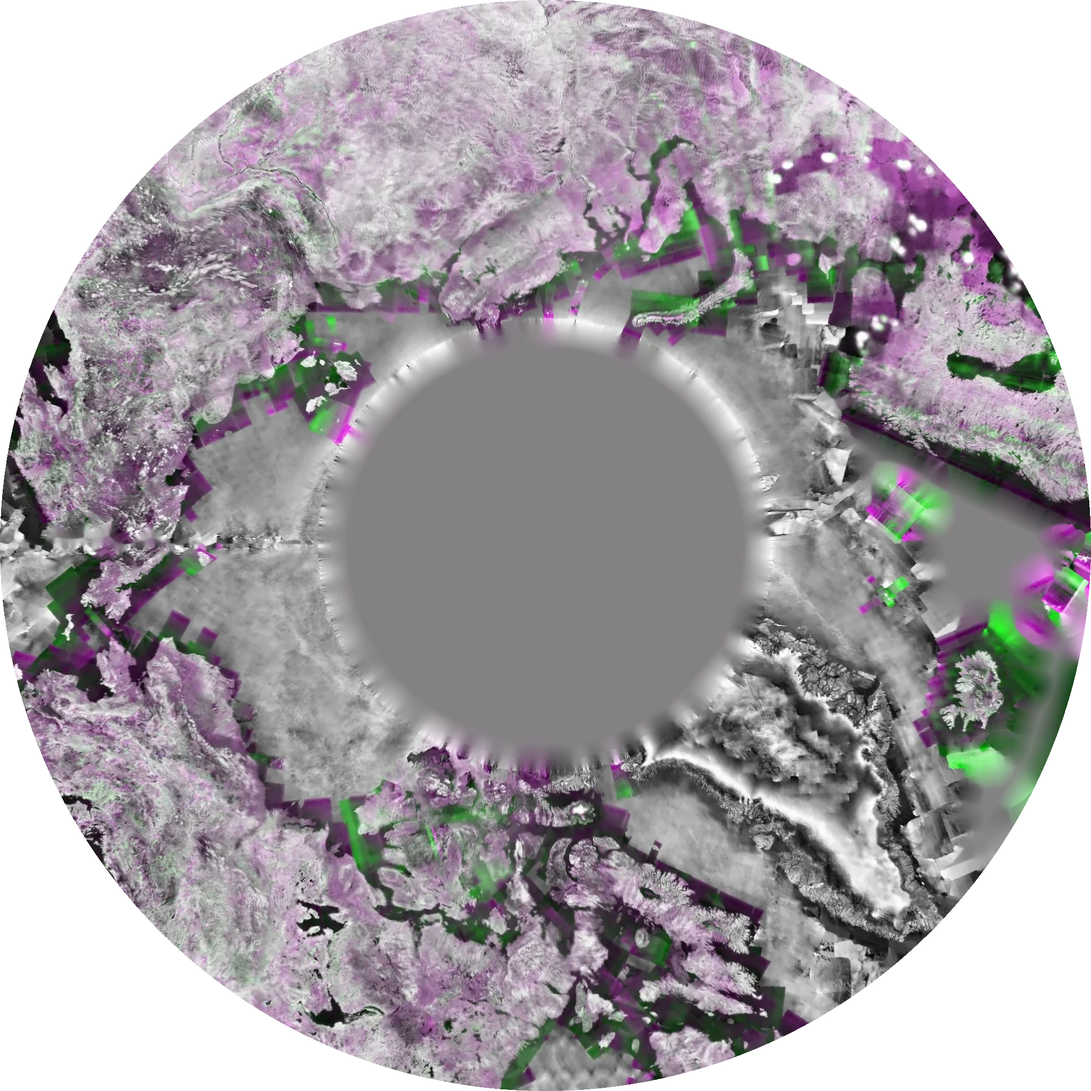
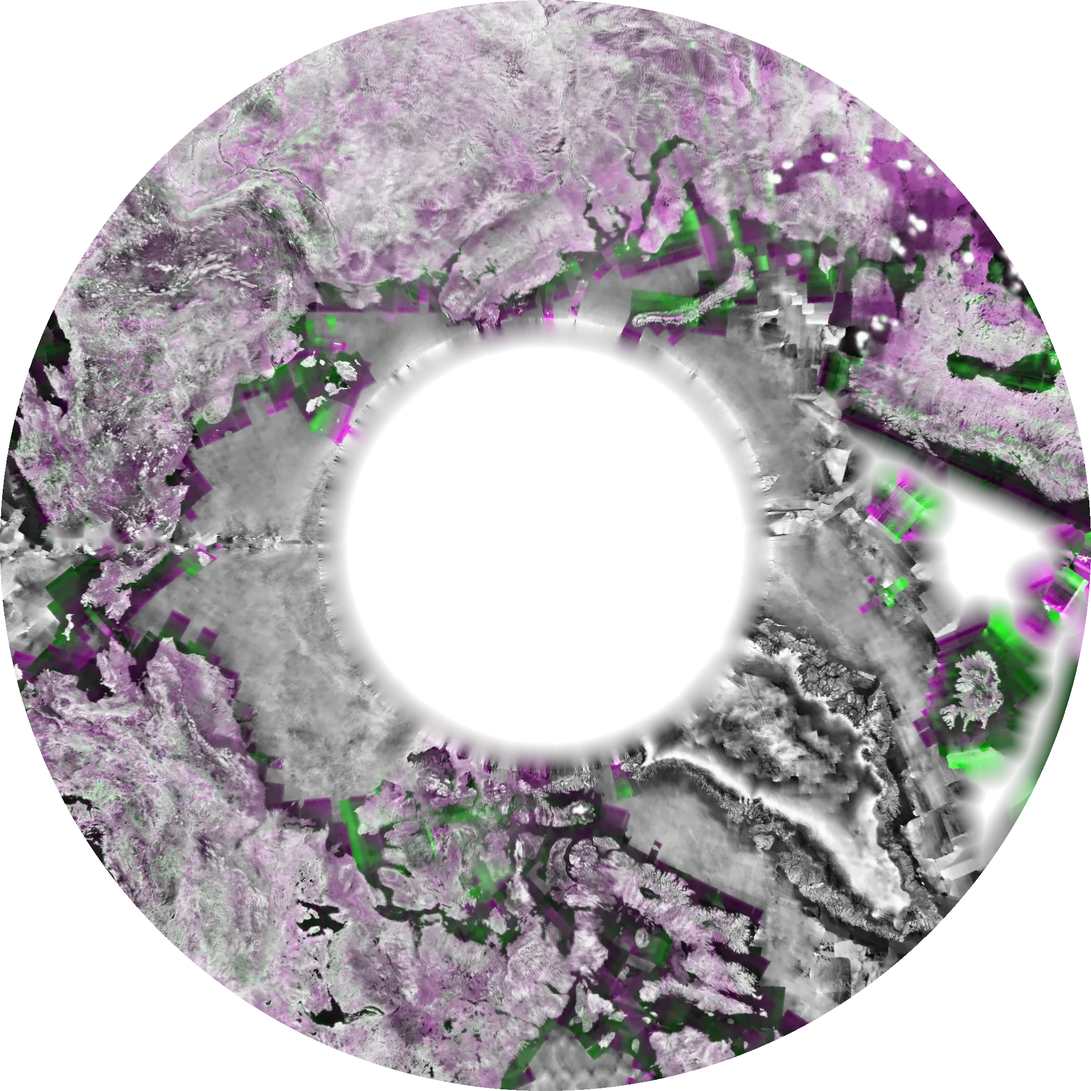
Polar caps rebuilt: fade to transparent beyond NISAR's reach (no flat colour disc); nav does not wrap
Claude-Session: https://claude.ai/code/session_01725WYVREKarQcBASVQ1Gx9

Changed region(s): [[0.2812, 0.2812, 0.7188, 0.7188], [0.7812, 0.375, 1.0, 0.7812], [0.0625, 0.4688, 0.125, 0.5]]

diff --git a/web/src/style.css b/web/src/style.css
@@ -434,3 +434,5 @@ abbr.term:hover, abbr.term:focus { color: var(--accent); border-bottom-color: va
 body.picking .globe canvas { cursor: crosshair; }
 @media (max-width: 700px) { .pick-bar { bottom: 70px; gap: 8px; } .pb-step { min-width: 0; } }
 @media (min-width: 900px) { .pick-bar { flex-wrap: nowrap; } .pb-act .btn { white-space: nowrap; } }
+.nav a { white-space: nowrap; }
+@media (max-width: 1250px) { .bar-meta { display: none; } }
